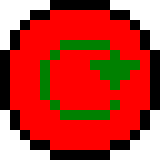
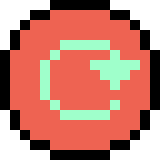
new colors with better contrast

diff --git a/css/style.css b/css/style.css
@@ -12,6 +12,15 @@
   display: none;
 }*/
 
+/*
+Color Palletes;
+
+1: https://coolors.co/697268-a1cdf4-e71d36-31e981-000500
+
+
+
+*/
+
 #start {
   width: 130px;
   height: 130px;
@@ -24,9 +33,9 @@
 #host {
   width: 200px;
   height: 40px;
-  color: green;
-  background-color: red;
-  border: 5px solid black;
+  color: #a1cdf4;
+  background-color: #e71d36;
+  border: 5px solid #000500;
   text-align: center;
   position: relative;
   top: -450px;
@@ -38,9 +47,9 @@
 #join {
   width: 200px;
   height: 40px;
-  color: green;
-  background-color: red;
-  border: 5px solid black;
+  color: #a1cdf4;
+  background-color: #e71d36;
+  border: 5px solid #000500;
   text-align: center;
   position: relative;
   top: -450px;
@@ -52,8 +61,8 @@
 #game {
   width: 1000px;
   height: 800px;
-  border: 4px solid black;
-  background-color: rgb(0, 255, 85);
+  border: 4px solid #000500;
+  background-color: #31e981;
 }
 
 #peerIdMenu {
@@ -87,9 +96,9 @@
 #joinButton {
   width: 200px;
   height: 40px;
-  color: green;
-  background-color: red;
-  border: 5px solid black;
+  color: #a1cdf4;
+  background-color: #e71d36;
+  border: 5px solid #000500;
   text-align: center;
   position: relative;
   /*top: -450px;*/

diff --git a/js/main.js b/js/main.js
@@ -90,13 +90,18 @@ class BeamWars {
 
   //drawing background
   drawBackground() {
+    this.ctx.save();
+
+    this.ctx.fillStyle = "#000500";
     this.ctx.fillRect(0, 0, this.width, this.height);
+
+    this.ctx.restore();
   }
 
   //drawing border
   drawBorder() {
     this.ctx.save();
-    this.ctx.fillStyle = "#4e4e4e";
+    this.ctx.fillStyle = "#697268";
     this.ctx.fillRect(0, 0, 10, this.canvas.height);
     this.ctx.fillRect(0, this.canvas.height - 10, this.canvas.width, 10);
     this.ctx.fillRect(0, 0, this.canvas.width, 10);
